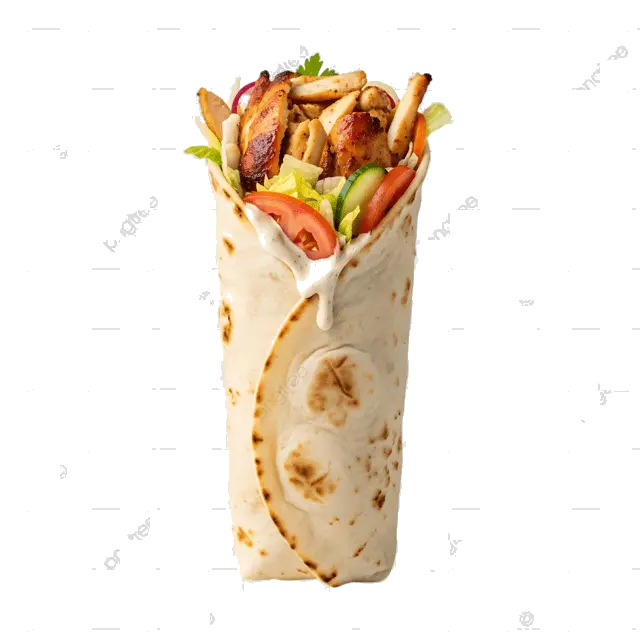
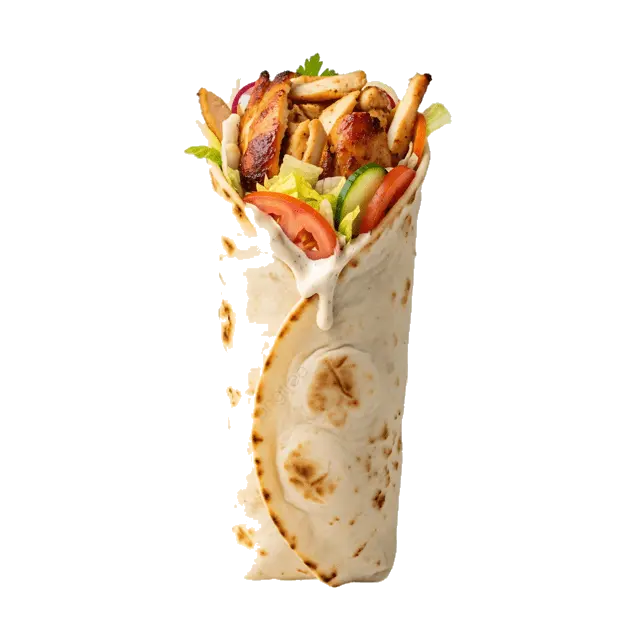
fix: proper bg removal, bigger shawarma, stronger animations
- Python BFS floodfill removes 78% of background pixels
- Shawarma container enlarged (inset -4% vs 6%)
- Bob animation increased (18px vs 8px, slower period)
- Mobile container bigger (56svh vs 44svh)
- Drop shadow added for depth

Claude-Session: https://claude.ai/code/session_014t6tUbfK2A6f7TRYec4aMg

diff --git a/src/components/hero/ShawarmaStage.tsx b/src/components/hero/ShawarmaStage.tsx
@@ -59,7 +59,7 @@ export function ShawarmaStage({ label, progress }: { label: string; progress: Mo
   const sway = useTransform(time, (t) => (reduce ? 0 : Math.sin(t / 2600) * 20));
   const turn = useTransform(() => sway.get() + smx.get() * 12);
   const tiltX = useTransform(smy, (v) => -v * 8);
-  const bob = useTransform(time, (t) => (reduce ? 0 : Math.sin(t / 900) * 8));
+  const bob = useTransform(time, (t) => (reduce ? 0 : Math.sin(t / 1200) * 18));
 
   // Прокрутка → шаурма уходит вниз и уменьшается
   const scrollY = useTransform(progress, [0, 1], [0, reduce ? 0 : 160]);
@@ -170,7 +170,7 @@ export function ShawarmaStage({ label, progress }: { label: string; progress: Mo
 
       {/* Шаурма */}
       <motion.div
-        className="absolute inset-[6%_14%_2%] z-10 [transform-style:preserve-3d]"
+        className="absolute inset-[-4%_4%_-2%] z-10 [transform-style:preserve-3d]"
         initial={{ opacity: 0, y: 80, scale: 0.86, filter: "blur(12px)" }}
         animate={{ opacity: 1, y: 0, scale: 1, filter: "blur(0px)" }}
         transition={{ duration: 1.3, delay: 0.25, ease: [0.16, 1, 0.3, 1] }}
@@ -195,7 +195,7 @@ export function ShawarmaStage({ label, progress }: { label: string; progress: Mo
               ))}
             </svg>
           {heroImage ? (
-            <Image src={heroImage} alt={label} fill priority sizes="(max-width: 768px) 80vw, 480px" className="object-contain" />
+            <Image src={heroImage} alt={label} fill priority sizes="(max-width: 768px) 80vw, 480px" className="object-contain drop-shadow-[0_20px_50px_rgba(0,0,0,.6)]" />
           ) : (
             <ShawarmaArt turn={turn} label={label} />
           )}

diff --git a/src/components/hero/Hero.tsx b/src/components/hero/Hero.tsx
@@ -127,7 +127,7 @@ export function Hero({ settings }: { settings: StoreSettings }) {
           </motion.ul>
         </motion.div>
 
-        <div className="relative -my-6 max-md:max-h-[44svh] max-md:[&>div]:max-w-[min(340px,40svh)] md:my-0 md:self-center [grid-area:stage]">
+        <div className="relative -my-6 max-md:max-h-[56svh] max-md:[&>div]:max-w-[min(400px,52svh)] md:my-0 md:self-center [grid-area:stage]">
           <ShawarmaStage label={settings.name} progress={scrollYProgress} />
         </div>
       </div>
